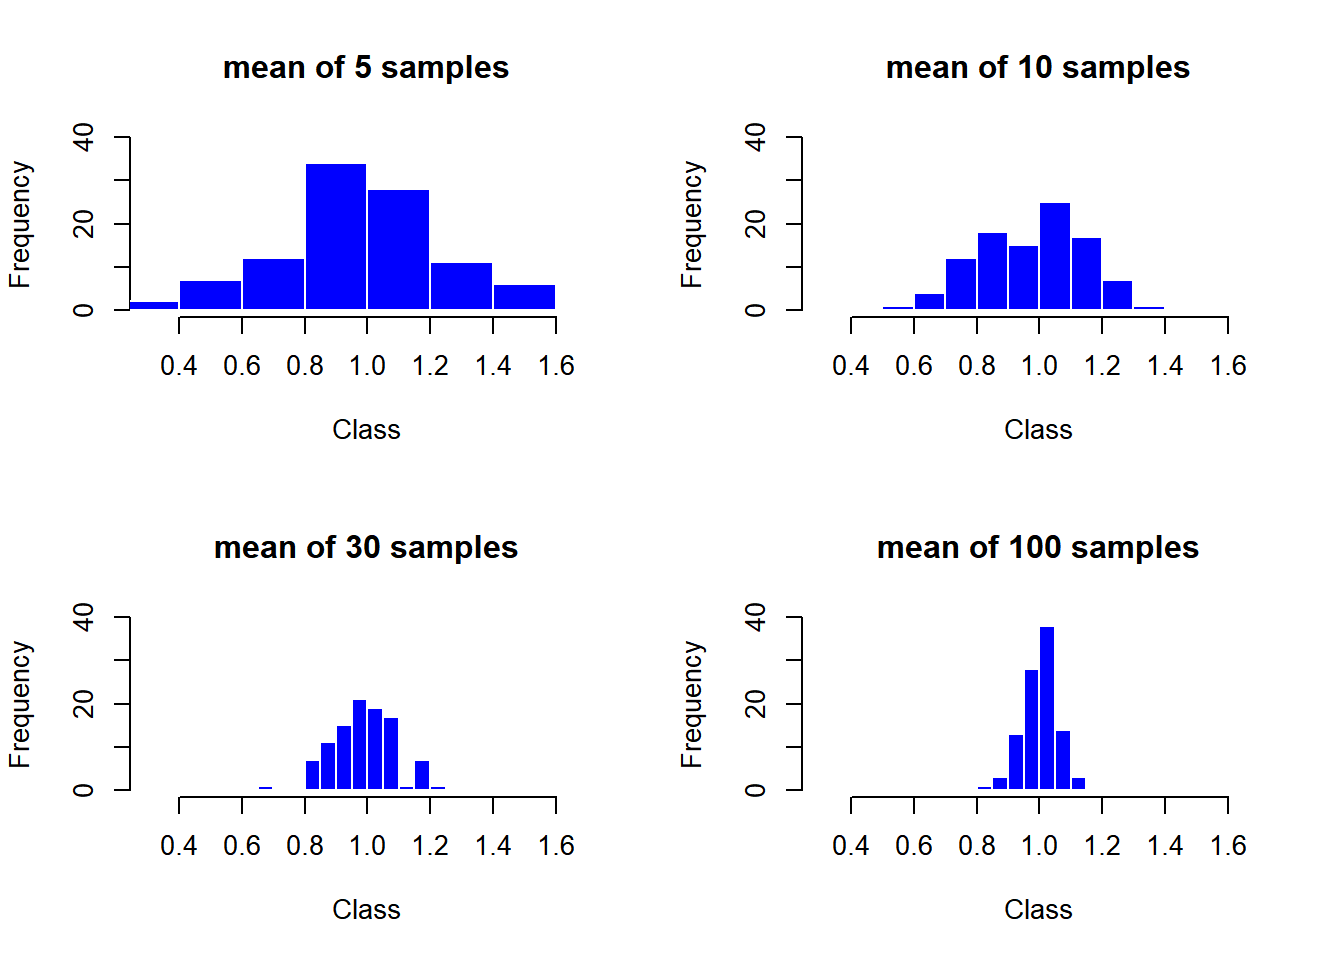
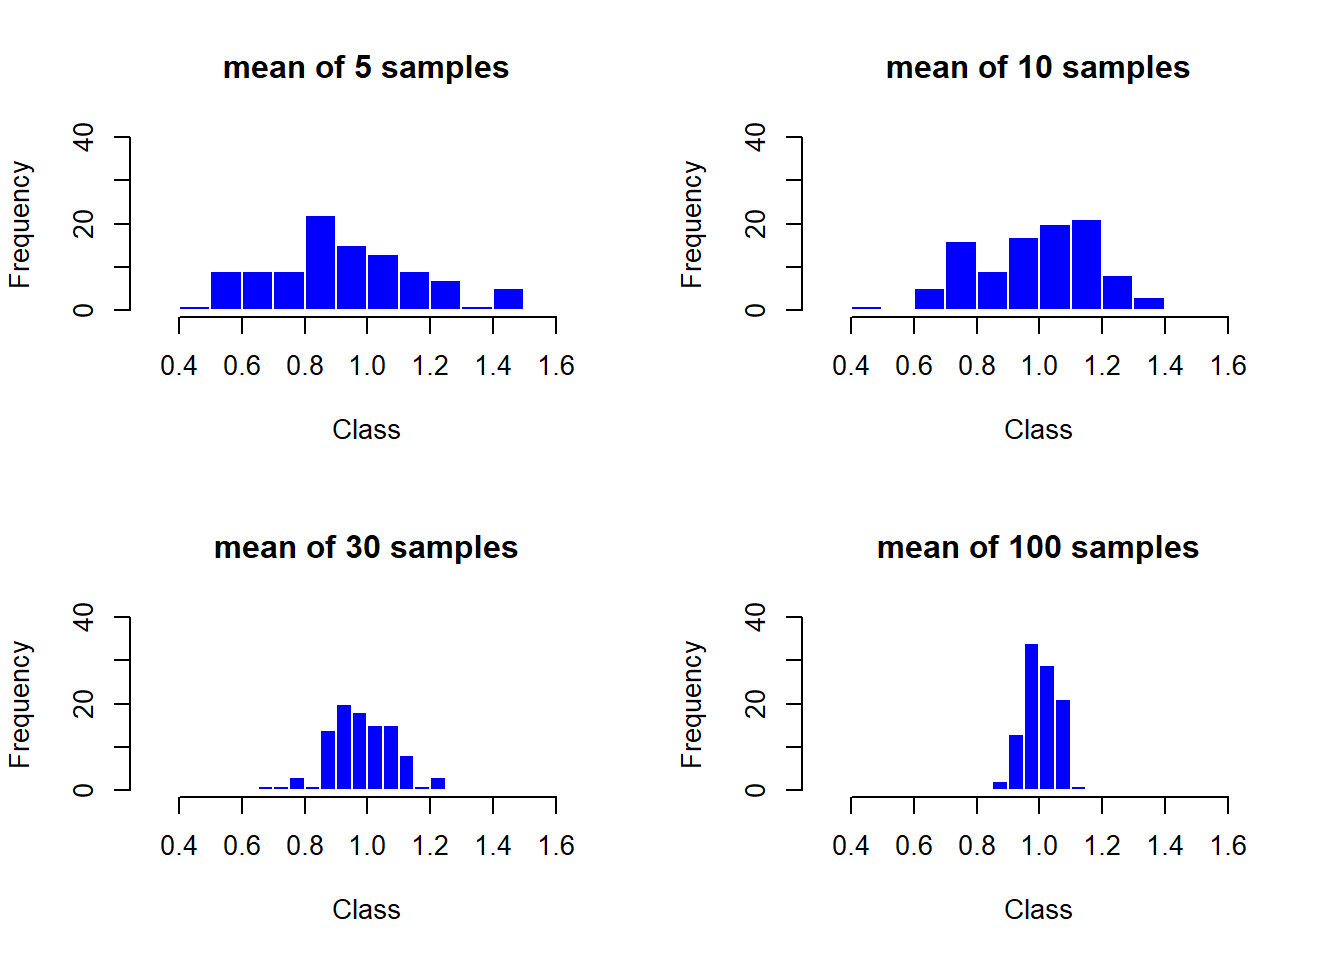
Add files via upload

diff --git a/docs/posts/08/index.html b/docs/posts/08/index.html
@@ -221,6 +221,7 @@ window.Quarto = {
   <ul class="collapse">
   <li><a href="#표본평균의-분포" id="toc-표본평균의-분포" class="nav-link" data-scroll-target="#표본평균의-분포">표본평균의 분포</a></li>
   </ul></li>
+  <li><a href="#t분포" id="toc-t분포" class="nav-link" data-scroll-target="#t분포">t분포</a></li>
   <li><a href="#모평균의-추정" id="toc-모평균의-추정" class="nav-link" data-scroll-target="#모평균의-추정">모평균의 추정</a>
   <ul class="collapse">
   <li><a href="#모평균의-구간추정-신뢰구간" id="toc-모평균의-구간추정-신뢰구간" class="nav-link" data-scroll-target="#모평균의-구간추정-신뢰구간">모평균의 구간추정, 신뢰구간</a></li>
@@ -305,15 +306,76 @@ window.Quarto = {
 <span id="cb2-13"><a href="#cb2-13" aria-hidden="true" tabindex="-1"></a></span>
 <span id="cb2-14"><a href="#cb2-14" aria-hidden="true" tabindex="-1"></a>SimStat</span></code><button title="Copy to Clipboard" class="code-copy-button"><i class="bi"></i></button></pre></div>
 <div class="cell-output cell-output-stdout">
-<pre><code>             n=5       n=10        n=30      n=100
-mean   0.9729752 0.97978835 0.989203485 1.00230931
-var    0.0687147 0.02721471 0.009337185 0.00292739
-median 0.9503002 1.00031873 0.986953764 1.00875891
-min    0.3816914 0.58072214 0.691923772 0.84858816
-max    1.5875276 1.32769674 1.202487758 1.12337011</code></pre>
+<pre><code>              n=5      n=10       n=30       n=100
+mean   0.93039307 0.9895468 0.98181136 1.003625214
+var    0.05621064 0.0336025 0.01096695 0.002672737
+median 0.89924288 1.0119501 0.98081825 1.001256114
+min    0.47238829 0.4781252 0.67736969 0.862885826
+max    1.49521073 1.3464896 1.22876121 1.111070408</code></pre>
 </div>
 </div>
 </section>
+</section>
+<section id="t분포" class="level2">
+<h2 class="anchored" data-anchor-id="t분포">t분포</h2>
+<ul>
+<li><p>표준정규분포 <span class="math inline">\(N(0,1)\)</span>을 따르는 확률변수를 <span class="math inline">\(Z\)</span>라 하자. 독립적이면서 자유도가 <span class="math inline">\(v\)</span>인 카이제곱 분포를 따르는 확률변수를 <span class="math inline">\(V\)</span>라고 할 때, <span class="math inline">\(T=\dfrac{Z}{\sqrt{V/v}}\)</span>의 분포를 자유도가 <span class="math inline">\(v\)</span>인 <span class="math inline">\(t\)</span>분포라고 한다. 이때 <span class="math inline">\(T \sim t(v)\)</span>라고 표시한다.</p></li>
+<li><p><span class="math inline">\(X_1\)</span>, <span class="math inline">\(X_2\)</span>, <span class="math inline">\(\cdots\)</span>, <span class="math inline">\(X_n\)</span> <span class="math inline">\(\sim N(\mu, \sigma^2)\)</span>, <span class="math inline">\(\bar{X} \sim N\left(\mu , \dfrac{\sigma^2}{n}\right)\)</span> 일때, 표준정규분포로 변환이 가능하며, <span class="math inline">\(\dfrac{\bar{X}-\mu}{\sigma/\sqrt{n}} \sim N(0,1)\)</span>이다.</p></li>
+<li><p>모분산 <span class="math inline">\(\sigma^2\)</span>을 모를 때, 표본분산 <span class="math inline">\(S^2 = \dfrac{\sum\limits_{i=1}^{n}(X_i - \bar{x})^2}{n-1}\)</span>으로 모분산의 추정치로 사용한다.</p></li>
+<li><p>즉, <span class="math inline">\(\sigma^2\)</span>을 <span class="math inline">\(S^2\)</span>으로 추정하면, 자유도가 <span class="math inline">\(n-1\)</span>인 <span class="math inline">\(t\)</span>분포를 따르게 되며, 이를 표현하면 <span class="math inline">\(\dfrac{\bar{X}-\mu}{S/\sqrt{n}} \sim t(n-1)\)</span>이다. (<span class="math inline">\(S\)</span>의 자유도가 <span class="math inline">\(n-1\)</span>이고, 이것으로부터 <span class="math inline">\(t\)</span>분포가 정의되기 때문에 자유도가 <span class="math inline">\(n-1\)</span>이다.)</p></li>
+<li><p><span class="math inline">\(t\)</span>분포를 따르는 이러한 변환을 <strong>스튜던트화(Studentized)</strong>라고 하며, <span class="math inline">\(t\)</span>분포를 스튜던트 <span class="math inline">\(t\)</span>분포라고도 한다.</p></li>
+</ul>
+<div class="cell">
+<div class="sourceCode cell-code" id="cb4"><pre class="sourceCode r code-with-copy"><code class="sourceCode r"><span id="cb4-1"><a href="#cb4-1" aria-hidden="true" tabindex="-1"></a><span class="fu">dt</span>(<span class="dv">0</span>, <span class="at">df=</span><span class="dv">30</span>)  <span class="co"># x~t(30)일때, P(x=0)의 값 계산</span></span></code><button title="Copy to Clipboard" class="code-copy-button"><i class="bi"></i></button></pre></div>
+<div class="cell-output cell-output-stdout">
+<pre><code>[1] 0.3956322</code></pre>
+</div>
+<div class="sourceCode cell-code" id="cb6"><pre class="sourceCode r code-with-copy"><code class="sourceCode r"><span id="cb6-1"><a href="#cb6-1" aria-hidden="true" tabindex="-1"></a><span class="fu">dnorm</span>(<span class="dv">0</span>, <span class="at">mean=</span><span class="dv">0</span>, <span class="at">sd=</span><span class="dv">1</span>)  <span class="co">#정규분포 Z~N(0,1)의 값과 비교해보면, t분포에서의 값이 약간 작고 따라서 t분포의 양 끝이 조금 두꺼움을 알 수 있다</span></span></code><button title="Copy to Clipboard" class="code-copy-button"><i class="bi"></i></button></pre></div>
+<div class="cell-output cell-output-stdout">
+<pre><code>[1] 0.3989423</code></pre>
+</div>
+<div class="sourceCode cell-code" id="cb8"><pre class="sourceCode r code-with-copy"><code class="sourceCode r"><span id="cb8-1"><a href="#cb8-1" aria-hidden="true" tabindex="-1"></a><span class="fu">pt</span>(<span class="dv">0</span>, <span class="at">df=</span><span class="dv">30</span>)  <span class="co"># x~t(30)일때, P(x&lt;0)의 값 계산하면 좌우대칭이라서 0.5임을 알 수 있다</span></span></code><button title="Copy to Clipboard" class="code-copy-button"><i class="bi"></i></button></pre></div>
+<div class="cell-output cell-output-stdout">
+<pre><code>[1] 0.5</code></pre>
+</div>
+<div class="sourceCode cell-code" id="cb10"><pre class="sourceCode r code-with-copy"><code class="sourceCode r"><span id="cb10-1"><a href="#cb10-1" aria-hidden="true" tabindex="-1"></a><span class="fu">pt</span>(<span class="dv">1</span>, <span class="at">df=</span><span class="dv">30</span>, <span class="at">lower.tail =</span> T)  <span class="co"># P(x&lt;1)의 값 계산</span></span></code><button title="Copy to Clipboard" class="code-copy-button"><i class="bi"></i></button></pre></div>
+<div class="cell-output cell-output-stdout">
+<pre><code>[1] 0.8373457</code></pre>
+</div>
+<div class="sourceCode cell-code" id="cb12"><pre class="sourceCode r code-with-copy"><code class="sourceCode r"><span id="cb12-1"><a href="#cb12-1" aria-hidden="true" tabindex="-1"></a><span class="fu">pt</span>(<span class="dv">1</span>, <span class="at">df=</span><span class="dv">30</span>, <span class="at">lower.tail =</span> F)  <span class="co"># P(x&gt;1)의 값 계산</span></span></code><button title="Copy to Clipboard" class="code-copy-button"><i class="bi"></i></button></pre></div>
+<div class="cell-output cell-output-stdout">
+<pre><code>[1] 0.1626543</code></pre>
+</div>
+<div class="sourceCode cell-code" id="cb14"><pre class="sourceCode r code-with-copy"><code class="sourceCode r"><span id="cb14-1"><a href="#cb14-1" aria-hidden="true" tabindex="-1"></a><span class="fu">pt</span>(<span class="dv">1</span>, <span class="at">df=</span><span class="dv">30</span>, <span class="at">lower.tail =</span> T) <span class="sc">+</span> <span class="fu">pt</span>(<span class="dv">1</span>, <span class="at">df=</span><span class="dv">30</span>, <span class="at">lower.tail =</span> F)  <span class="co"># 합이 1임을 확인할 수 있다</span></span></code><button title="Copy to Clipboard" class="code-copy-button"><i class="bi"></i></button></pre></div>
+<div class="cell-output cell-output-stdout">
+<pre><code>[1] 1</code></pre>
+</div>
+<div class="sourceCode cell-code" id="cb16"><pre class="sourceCode r code-with-copy"><code class="sourceCode r"><span id="cb16-1"><a href="#cb16-1" aria-hidden="true" tabindex="-1"></a><span class="fu">qt</span>(<span class="fl">0.05</span>, <span class="at">df=</span><span class="dv">30</span>, <span class="at">lower.tail=</span>T)  <span class="co"># 확률이 0.05인 x값</span></span></code><button title="Copy to Clipboard" class="code-copy-button"><i class="bi"></i></button></pre></div>
+<div class="cell-output cell-output-stdout">
+<pre><code>[1] -1.697261</code></pre>
+</div>
+<div class="sourceCode cell-code" id="cb18"><pre class="sourceCode r code-with-copy"><code class="sourceCode r"><span id="cb18-1"><a href="#cb18-1" aria-hidden="true" tabindex="-1"></a><span class="fu">qt</span>(<span class="fl">0.025</span>, <span class="at">df=</span><span class="dv">30</span>, <span class="at">lower.tail=</span>T)  <span class="co"># 확률이 0.025인 x값</span></span></code><button title="Copy to Clipboard" class="code-copy-button"><i class="bi"></i></button></pre></div>
+<div class="cell-output cell-output-stdout">
+<pre><code>[1] -2.042272</code></pre>
+</div>
+<div class="sourceCode cell-code" id="cb20"><pre class="sourceCode r code-with-copy"><code class="sourceCode r"><span id="cb20-1"><a href="#cb20-1" aria-hidden="true" tabindex="-1"></a><span class="fu">qt</span>(<span class="fl">0.05</span>, <span class="at">df=</span><span class="dv">30</span>, <span class="at">lower.tail=</span>F)  <span class="co"># P(x&gt;x) = 0.05인 x값</span></span></code><button title="Copy to Clipboard" class="code-copy-button"><i class="bi"></i></button></pre></div>
+<div class="cell-output cell-output-stdout">
+<pre><code>[1] 1.697261</code></pre>
+</div>
+<div class="sourceCode cell-code" id="cb22"><pre class="sourceCode r code-with-copy"><code class="sourceCode r"><span id="cb22-1"><a href="#cb22-1" aria-hidden="true" tabindex="-1"></a><span class="fu">qt</span>(<span class="fl">0.025</span>, <span class="at">df=</span><span class="dv">30</span>, <span class="at">lower.tail=</span>F)  <span class="co"># P(x&gt;x) = 0.025인 x값</span></span></code><button title="Copy to Clipboard" class="code-copy-button"><i class="bi"></i></button></pre></div>
+<div class="cell-output cell-output-stdout">
+<pre><code>[1] 2.042272</code></pre>
+</div>
+<div class="sourceCode cell-code" id="cb24"><pre class="sourceCode r code-with-copy"><code class="sourceCode r"><span id="cb24-1"><a href="#cb24-1" aria-hidden="true" tabindex="-1"></a>sample <span class="ot">=</span> <span class="fu">rt</span>(<span class="dv">1000</span>, <span class="at">df=</span><span class="dv">30</span>)</span>
+<span id="cb24-2"><a href="#cb24-2" aria-hidden="true" tabindex="-1"></a><span class="fu">hist</span>(sample)</span></code><button title="Copy to Clipboard" class="code-copy-button"><i class="bi"></i></button></pre></div>
+<div class="cell-output-display">
+<div>
+<figure class="figure">
+<p><img src="index_files/figure-html/unnamed-chunk-3-1.png" class="img-fluid figure-img" width="672"></p>
+</figure>
+</div>
+</div>
+</div>
 </section>
 <section id="모평균의-추정" class="level2">
 <h2 class="anchored" data-anchor-id="모평균의-추정">모평균의 추정</h2>
@@ -323,10 +385,13 @@ max    1.5875276 1.32769674 1.202487758 1.12337011</code></pre>
 <li>다음은 베어링의 평균 직경을 알아보고자 9개의 베어링 표본을 대상으로 조사한 것이다. 3.4, 3.3, 4.2, 4.4, 3.7, 4.5, 4.6, 3.8, 4.1 평균 직경에 대한 95% 신뢰구간을 구하시오.</li>
 </ul>
 <div class="cell">
-<div class="sourceCode cell-code" id="cb4"><pre class="sourceCode r code-with-copy"><code class="sourceCode r"><span id="cb4-1"><a href="#cb4-1" aria-hidden="true" tabindex="-1"></a>x <span class="ot">&lt;-</span> <span class="fu">c</span>(<span class="fl">3.4</span>, <span class="fl">3.3</span>, <span class="fl">4.2</span>, <span class="fl">4.4</span>, <span class="fl">3.7</span>, <span class="fl">4.5</span>, <span class="fl">4.6</span>, <span class="fl">3.8</span>, <span class="fl">4.1</span>)</span>
-<span id="cb4-2"><a href="#cb4-2" aria-hidden="true" tabindex="-1"></a></span>
-<span id="cb4-3"><a href="#cb4-3" aria-hidden="true" tabindex="-1"></a><span class="fu">library</span>(TeachingDemos)</span>
-<span id="cb4-4"><a href="#cb4-4" aria-hidden="true" tabindex="-1"></a><span class="fu">z.test</span>(x, <span class="at">sd=</span><span class="fl">0.4</span>, <span class="dv">9</span>)  <span class="co"># 과거로부터 σ=0.4로 알려졌을때 신뢰구간</span></span></code><button title="Copy to Clipboard" class="code-copy-button"><i class="bi"></i></button></pre></div>
+<div class="sourceCode cell-code" id="cb25"><pre class="sourceCode r code-with-copy"><code class="sourceCode r"><span id="cb25-1"><a href="#cb25-1" aria-hidden="true" tabindex="-1"></a>x <span class="ot">&lt;-</span> <span class="fu">c</span>(<span class="fl">3.4</span>, <span class="fl">3.3</span>, <span class="fl">4.2</span>, <span class="fl">4.4</span>, <span class="fl">3.7</span>, <span class="fl">4.5</span>, <span class="fl">4.6</span>, <span class="fl">3.8</span>, <span class="fl">4.1</span>)</span>
+<span id="cb25-2"><a href="#cb25-2" aria-hidden="true" tabindex="-1"></a></span>
+<span id="cb25-3"><a href="#cb25-3" aria-hidden="true" tabindex="-1"></a><span class="fu">library</span>(TeachingDemos)</span></code><button title="Copy to Clipboard" class="code-copy-button"><i class="bi"></i></button></pre></div>
+<div class="cell-output cell-output-stderr">
+<pre><code>Warning: package 'TeachingDemos' was built under R version 4.3.3</code></pre>
+</div>
+<div class="sourceCode cell-code" id="cb27"><pre class="sourceCode r code-with-copy"><code class="sourceCode r"><span id="cb27-1"><a href="#cb27-1" aria-hidden="true" tabindex="-1"></a><span class="fu">z.test</span>(x, <span class="at">sd=</span><span class="fl">0.4</span>, <span class="dv">9</span>)  <span class="co"># 과거로부터 σ=0.4로 알려졌을때 신뢰구간</span></span></code><button title="Copy to Clipboard" class="code-copy-button"><i class="bi"></i></button></pre></div>
 <div class="cell-output cell-output-stdout">
 <pre><code>
     One Sample z-test
@@ -341,7 +406,7 @@ sample estimates:
 mean of x 
         4 </code></pre>
 </div>
-<div class="sourceCode cell-code" id="cb6"><pre class="sourceCode r code-with-copy"><code class="sourceCode r"><span id="cb6-1"><a href="#cb6-1" aria-hidden="true" tabindex="-1"></a><span class="fu">t.test</span>(x)  <span class="co"># 모표준편차를 모를때 표본표준편차를 이용한 t분포로 구한 신뢰구간</span></span></code><button title="Copy to Clipboard" class="code-copy-button"><i class="bi"></i></button></pre></div>
+<div class="sourceCode cell-code" id="cb29"><pre class="sourceCode r code-with-copy"><code class="sourceCode r"><span id="cb29-1"><a href="#cb29-1" aria-hidden="true" tabindex="-1"></a><span class="fu">t.test</span>(x)  <span class="co"># 모표준편차를 모를때 표본표준편차를 이용한 t분포로 구한 신뢰구간</span></span></code><button title="Copy to Clipboard" class="code-copy-button"><i class="bi"></i></button></pre></div>
 <div class="cell-output cell-output-stdout">
 <pre><code>
     One Sample t-test
@@ -363,29 +428,29 @@ mean of x
 <li>앞의 예제에서 오차한계 <span class="math inline">\(d\)</span>가 <span class="math inline">\(0.2\)</span>라면 표본수 <span class="math inline">\(n\)</span>은 얼마가 되어야 하는지 구하시오. (<span class="math inline">\(\alpha=0.05\)</span>)</li>
 </ul>
 <div class="cell">
-<div class="sourceCode cell-code" id="cb8"><pre class="sourceCode r code-with-copy"><code class="sourceCode r"><span id="cb8-1"><a href="#cb8-1" aria-hidden="true" tabindex="-1"></a><span class="co"># 오차한계 d=0.2일때때</span></span>
-<span id="cb8-2"><a href="#cb8-2" aria-hidden="true" tabindex="-1"></a>zstar <span class="ot">=</span> <span class="fu">qnorm</span>(.<span class="dv">975</span>) <span class="co"># σ=0.4로 알려졌을때 n의 개수</span></span>
-<span id="cb8-3"><a href="#cb8-3" aria-hidden="true" tabindex="-1"></a>sigma <span class="ot">=</span> <span class="fl">0.4</span> </span>
-<span id="cb8-4"><a href="#cb8-4" aria-hidden="true" tabindex="-1"></a>E <span class="ot">=</span> <span class="fl">0.2</span> </span>
-<span id="cb8-5"><a href="#cb8-5" aria-hidden="true" tabindex="-1"></a>zstar<span class="sc">^</span><span class="dv">2</span> <span class="sc">*</span> sigma<span class="sc">^</span><span class="dv">2</span><span class="sc">/</span> E<span class="sc">^</span><span class="dv">2</span></span></code><button title="Copy to Clipboard" class="code-copy-button"><i class="bi"></i></button></pre></div>
+<div class="sourceCode cell-code" id="cb31"><pre class="sourceCode r code-with-copy"><code class="sourceCode r"><span id="cb31-1"><a href="#cb31-1" aria-hidden="true" tabindex="-1"></a><span class="co"># 오차한계 d=0.2일때때</span></span>
+<span id="cb31-2"><a href="#cb31-2" aria-hidden="true" tabindex="-1"></a>zstar <span class="ot">=</span> <span class="fu">qnorm</span>(.<span class="dv">975</span>) <span class="co"># σ=0.4로 알려졌을때 n의 개수</span></span>
+<span id="cb31-3"><a href="#cb31-3" aria-hidden="true" tabindex="-1"></a>sigma <span class="ot">=</span> <span class="fl">0.4</span> </span>
+<span id="cb31-4"><a href="#cb31-4" aria-hidden="true" tabindex="-1"></a>E <span class="ot">=</span> <span class="fl">0.2</span> </span>
+<span id="cb31-5"><a href="#cb31-5" aria-hidden="true" tabindex="-1"></a>zstar<span class="sc">^</span><span class="dv">2</span> <span class="sc">*</span> sigma<span class="sc">^</span><span class="dv">2</span><span class="sc">/</span> E<span class="sc">^</span><span class="dv">2</span></span></code><button title="Copy to Clipboard" class="code-copy-button"><i class="bi"></i></button></pre></div>
 <div class="cell-output cell-output-stdout">
 <pre><code>[1] 15.36584</code></pre>
 </div>
-<div class="sourceCode cell-code" id="cb10"><pre class="sourceCode r code-with-copy"><code class="sourceCode r"><span id="cb10-1"><a href="#cb10-1" aria-hidden="true" tabindex="-1"></a>zstar <span class="ot">=</span> <span class="fu">qt</span>(.<span class="dv">975</span>, <span class="dv">15</span>) <span class="co"># 모표준편차를 모를때, 자유도를 15로 사용할때의 n의 개수</span></span>
-<span id="cb10-2"><a href="#cb10-2" aria-hidden="true" tabindex="-1"></a>sigma <span class="ot">=</span> <span class="fl">0.4</span> </span>
-<span id="cb10-3"><a href="#cb10-3" aria-hidden="true" tabindex="-1"></a>E <span class="ot">=</span> <span class="fl">0.2</span> </span>
-<span id="cb10-4"><a href="#cb10-4" aria-hidden="true" tabindex="-1"></a>zstar<span class="sc">^</span><span class="dv">2</span> <span class="sc">*</span> sigma<span class="sc">^</span><span class="dv">2</span><span class="sc">/</span> E<span class="sc">^</span><span class="dv">2</span>  </span></code><button title="Copy to Clipboard" class="code-copy-button"><i class="bi"></i></button></pre></div>
+<div class="sourceCode cell-code" id="cb33"><pre class="sourceCode r code-with-copy"><code class="sourceCode r"><span id="cb33-1"><a href="#cb33-1" aria-hidden="true" tabindex="-1"></a>zstar <span class="ot">=</span> <span class="fu">qt</span>(.<span class="dv">975</span>, <span class="dv">15</span>) <span class="co"># 모표준편차를 모를때, 자유도를 15로 사용할때의 n의 개수</span></span>
+<span id="cb33-2"><a href="#cb33-2" aria-hidden="true" tabindex="-1"></a>sigma <span class="ot">=</span> <span class="fl">0.4</span> </span>
+<span id="cb33-3"><a href="#cb33-3" aria-hidden="true" tabindex="-1"></a>E <span class="ot">=</span> <span class="fl">0.2</span> </span>
+<span id="cb33-4"><a href="#cb33-4" aria-hidden="true" tabindex="-1"></a>zstar<span class="sc">^</span><span class="dv">2</span> <span class="sc">*</span> sigma<span class="sc">^</span><span class="dv">2</span><span class="sc">/</span> E<span class="sc">^</span><span class="dv">2</span>  </span></code><button title="Copy to Clipboard" class="code-copy-button"><i class="bi"></i></button></pre></div>
 <div class="cell-output cell-output-stdout">
 <pre><code>[1] 18.17231</code></pre>
 </div>
-<div class="sourceCode cell-code" id="cb12"><pre class="sourceCode r code-with-copy"><code class="sourceCode r"><span id="cb12-1"><a href="#cb12-1" aria-hidden="true" tabindex="-1"></a>zstar <span class="ot">=</span> <span class="fu">qt</span>(.<span class="dv">975</span>, <span class="dv">17</span>) <span class="co"># 모표준편차를 모를때, 자유도를 17로 사용할때의 n의 개수 </span></span>
-<span id="cb12-2"><a href="#cb12-2" aria-hidden="true" tabindex="-1"></a>sigma <span class="ot">=</span> <span class="fl">0.4</span> </span>
-<span id="cb12-3"><a href="#cb12-3" aria-hidden="true" tabindex="-1"></a>E <span class="ot">=</span> <span class="fl">0.2</span> </span>
-<span id="cb12-4"><a href="#cb12-4" aria-hidden="true" tabindex="-1"></a>zstar<span class="sc">^</span><span class="dv">2</span> <span class="sc">*</span> sigma<span class="sc">^</span><span class="dv">2</span><span class="sc">/</span> E<span class="sc">^</span><span class="dv">2</span>    </span></code><button title="Copy to Clipboard" class="code-copy-button"><i class="bi"></i></button></pre></div>
+<div class="sourceCode cell-code" id="cb35"><pre class="sourceCode r code-with-copy"><code class="sourceCode r"><span id="cb35-1"><a href="#cb35-1" aria-hidden="true" tabindex="-1"></a>zstar <span class="ot">=</span> <span class="fu">qt</span>(.<span class="dv">975</span>, <span class="dv">17</span>) <span class="co"># 모표준편차를 모를때, 자유도를 17로 사용할때의 n의 개수 </span></span>
+<span id="cb35-2"><a href="#cb35-2" aria-hidden="true" tabindex="-1"></a>sigma <span class="ot">=</span> <span class="fl">0.4</span> </span>
+<span id="cb35-3"><a href="#cb35-3" aria-hidden="true" tabindex="-1"></a>E <span class="ot">=</span> <span class="fl">0.2</span> </span>
+<span id="cb35-4"><a href="#cb35-4" aria-hidden="true" tabindex="-1"></a>zstar<span class="sc">^</span><span class="dv">2</span> <span class="sc">*</span> sigma<span class="sc">^</span><span class="dv">2</span><span class="sc">/</span> E<span class="sc">^</span><span class="dv">2</span>    </span></code><button title="Copy to Clipboard" class="code-copy-button"><i class="bi"></i></button></pre></div>
 <div class="cell-output cell-output-stdout">
 <pre><code>[1] 17.80529</code></pre>
 </div>
-<div class="sourceCode cell-code" id="cb14"><pre class="sourceCode r code-with-copy"><code class="sourceCode r"><span id="cb14-1"><a href="#cb14-1" aria-hidden="true" tabindex="-1"></a><span class="co"># 따라서 n=18이면 적절하다.</span></span></code><button title="Copy to Clipboard" class="code-copy-button"><i class="bi"></i></button></pre></div>
+<div class="sourceCode cell-code" id="cb37"><pre class="sourceCode r code-with-copy"><code class="sourceCode r"><span id="cb37-1"><a href="#cb37-1" aria-hidden="true" tabindex="-1"></a><span class="co"># 따라서 n=18이면 적절하다.</span></span></code><button title="Copy to Clipboard" class="code-copy-button"><i class="bi"></i></button></pre></div>
 </div>
 
 
